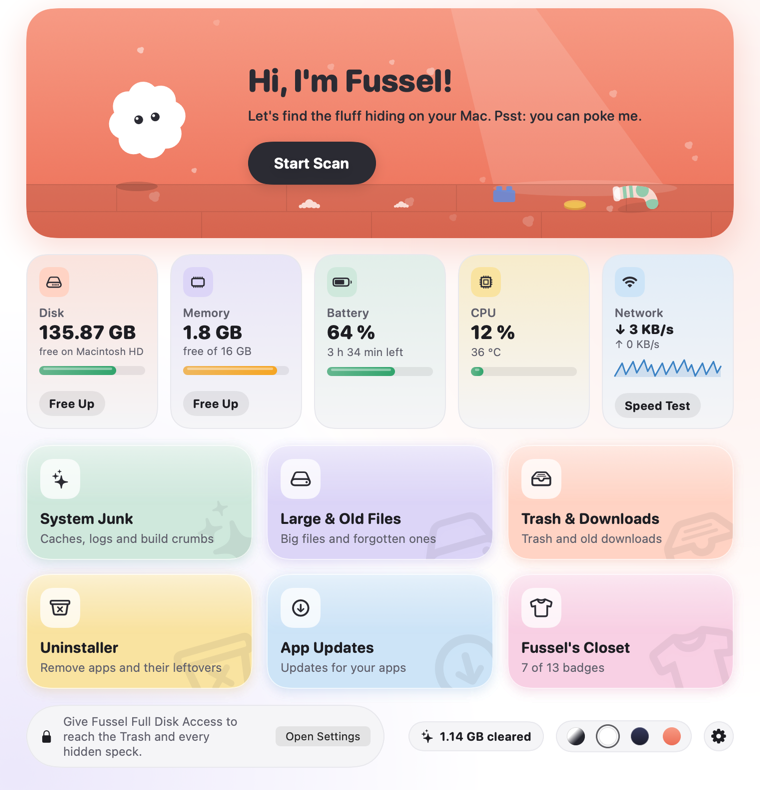
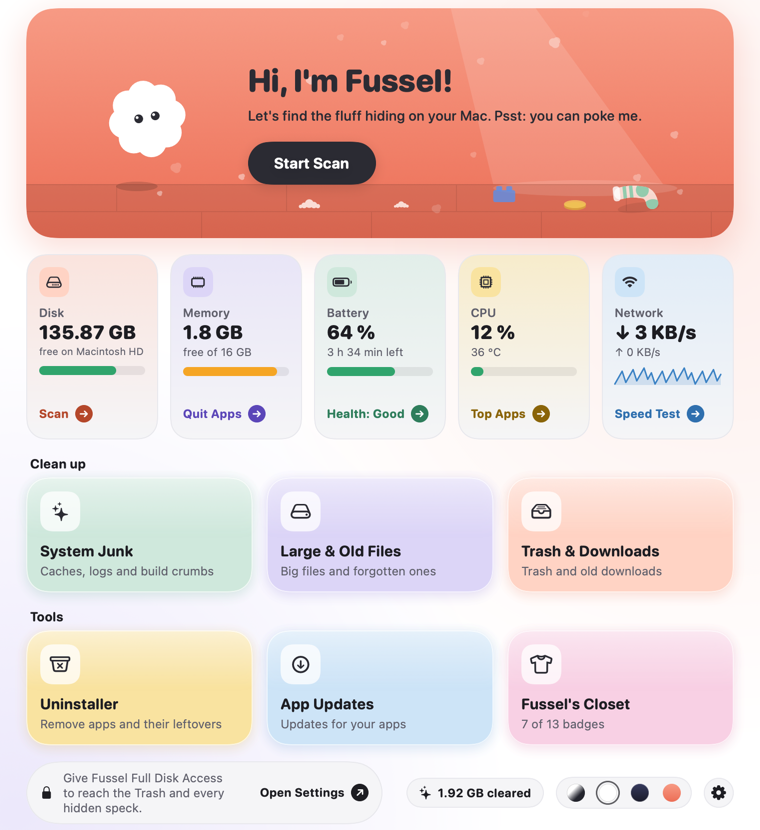
Fussel 0.8.4: clearer main screen, lighter animations, new screenshots

diff --git a/release-notes/0.8.4.md b/release-notes/0.8.4.md
@@ -1,0 +1,80 @@
+<p align="center">
+  <img src="https://github.com/Dshamil/fussel/blob/main/docs/logo.png?raw=true" width="180" alt="Fussel app icon">
+</p>
+
+<h1 align="center">Fussel 0.8.4 Beta</h1>
+
+<p align="center"><b>A small, friendly Mac cleaner.</b><br>Fussel finds the fluff on your Mac and moves it to the Trash.</p>
+
+<p align="center">
+  <img src="https://github.com/Dshamil/fussel/blob/main/docs/screenshots/styles.png?raw=true" alt="Fussel in White, Dark and Coral style">
+</p>
+
+## New in 0.8.4
+
+- **A clearer main screen:** the cards now sit in two groups, Clean up and Tools, so you see at a glance what tidies your Mac and what helps with apps and Fussel himself
+- **Buttons that say what they do:** the disk tile now says Scan and the memory tile says Quit Apps. The pill shapes are gone: actions are colored text with a little arrow badge that grows and nudges forward when you point at it
+- **Every tile has a job:** the battery tile shows your battery's health and opens the Battery settings, and the CPU tile lists the busiest apps so you can quit one, just like the memory tile
+- **Cleaner cards and bars:** the big background symbols on the cards are gone, and the bars in the tiles are solid green, orange or red
+- **Lighter on your battery:** Fussel now floats at a calm 30 frames per second and only speeds up to 60 for quick moves like a poke, a scan or a happy hop. With the window open he uses about a quarter less CPU than before
+
+## New in 0.8.3
+
+- **Fussel has a little world now:** a cozy floor with wooden boards, a soft beam of light and a few lost things: a Lego brick, a coin and a floppy striped sock
+- **Fluff you can see:** fluff piles grow on the floor while Fussel scans and disappear after cleaning
+
+<p align="center">
+  <img src="https://github.com/Dshamil/fussel/blob/main/docs/icons-0.8.png?raw=true" width="640" alt="Fussel's app icons">
+</p>
+
+## What's inside
+
+- **One-click scan** for system junk (caches, logs, Xcode build data), large and old files, the Trash and old downloads
+- **Uninstaller** that removes apps together with their support files, caches and preferences
+- **Your Mac at a glance:** free disk space, memory, battery, CPU load and temperature, and live network speed with a built-in speed test
+- **Free up memory** by quitting the hungriest apps, right from the memory tile
+- **Three styles:** White, Dark and Coral, or follow the system automatically
+- **Fussel himself:** blinks, follows your pointer, does a flip when you poke him, slurps up files while scanning and celebrates with confetti
+- **A playful tutorial** on first launch (right-click the menu bar icon › Show Tutorial to see it again)
+- **Undo, history, moods and a weekly reminder** so Fussel feels like a little companion
+- **Lives in your menu bar:** no Dock icon. Click the little fluff next to the clock to open Fussel, right-click for a quick scan, the tutorial, settings or quit
+- **Starts with your Mac** and quietly waits in the background (turn it off in Settings)
+
+<p align="center">
+  <img src="https://github.com/Dshamil/fussel/blob/main/docs/screenshots/scan.png?raw=true" width="420" alt="Fussel scanning">
+  <img src="https://github.com/Dshamil/fussel/blob/main/docs/screenshots/tutorial.png?raw=true" width="420" alt="Fussel tutorial">
+</p>
+
+## Safety first
+
+Everything Fussel cleans goes to the **Trash first**, so you can always put it back. Only items that are already in the Trash are deleted for good, and Fussel asks before doing that. System files, Apple apps and your main folders are never touched.
+
+## Install
+
+**Recommended: the installer**
+
+1. Download **Fussel-Installer.pkg** below and open it.
+2. This beta isn't signed with an Apple Developer ID yet, so macOS blocks it at first. Open **System Settings › Privacy & Security**, scroll down and click **Open Anyway** next to the Fussel installer.
+3. Click through the installer. Fussel lands in your Applications folder and appears in the menu bar, next to the clock.
+4. Recommended: allow **Full Disk Access** in System Settings › Privacy & Security, so Fussel can reach the Trash and every hidden cache.
+
+**Or: drag and drop**
+
+Open **Fussel.dmg** and drag Fussel onto the Applications folder. Before the first launch, run this once in Terminal:
+```
+xattr -dr com.apple.quarantine /Applications/Fussel.app
+```
+
+Requires macOS 14 Sonoma or later. Runs natively on Apple Silicon and Intel.
+
+**Using Fussel:** click the fluff in the menu bar to open or close the window. Right-click it for Scan Mac, Show Tutorial, Settings and Quit. Closing the window keeps Fussel running in the background.
+
+## Beta notes
+
+- This is a beta: things may still wobble. Please report anything odd as an issue, screenshots help a lot.
+- The CPU temperature isn't available on every Mac; Fussel then shows Cool, Warm or Hot instead.
+- After an update, macOS may ask for Full Disk Access again.
+- Updating: just run the new installer. It quits the old Fussel and replaces it.
+- Undo only works while the items are still in the Trash.
+- Fussel checks for its own updates on GitHub. That works as soon as the GitHub page is public.
+- Changing the app icon needs Fussel to be installed with the installer (0.8.0 or newer).
